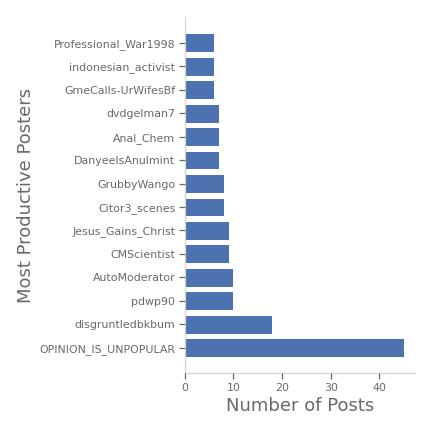
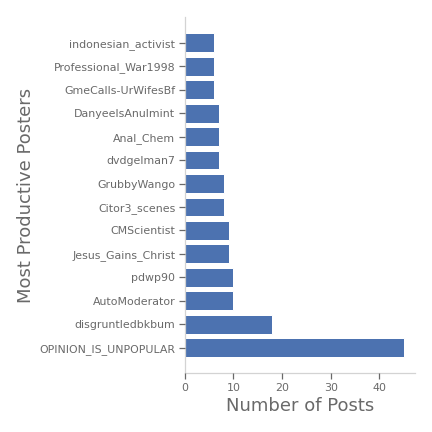
summarizing graphs

diff --git a/README.md b/README.md
@@ -37,8 +37,8 @@ A total of 1322 submission authors are represented in the data. The plot below s
 | <a href=https://www.reddit.com/user/Citor3_scenes/>Citor3_scenes</a> | 8 |
 | <a href=https://www.reddit.com/user/GrubbyWango/>GrubbyWango</a> | 8 |
 | <a href=https://www.reddit.com/user/dvdgelman7/>dvdgelman7</a> | 7 |
-| <a href=https://www.reddit.com/user/DanyeelsAnulmint/>DanyeelsAnulmint</a> | 7 |
 | <a href=https://www.reddit.com/user/Anal_Chem/>Anal_Chem</a> | 7 |
+| <a href=https://www.reddit.com/user/DanyeelsAnulmint/>DanyeelsAnulmint</a> | 7 |
 | <a href=https://www.reddit.com/user/GmeCalls-UrWifesBf/>GmeCalls-UrWifesBf</a> | 6 |
 | <a href=https://www.reddit.com/user/Professional_War1998/>Professional_War1998</a> | 6 |
 | <a href=https://www.reddit.com/user/indonesian_activist/>indonesian_activist</a> | 6 |
@@ -49,7 +49,7 @@ A total of 1322 submission authors are represented in the data. The plot below s
 1. Only one of the big authors is a bot (AutoModerator) as determined by visual inspection of their posts.
 
 # Posts Per Hour
-Below is a graph of the total number of posts for each hour. Note the extreme outlier. <br>
+Below is a graph of the total number of posts for each hour. Note the extreme outlier -- those took place during a four-hour period on March 24th, 2021 (shortly after 2000 hours on the graph below).<br>
 ![Figure 3](figures/groupby_month_day_hour.png)
 <Figure size 432x432 with 1 Axes>
 
